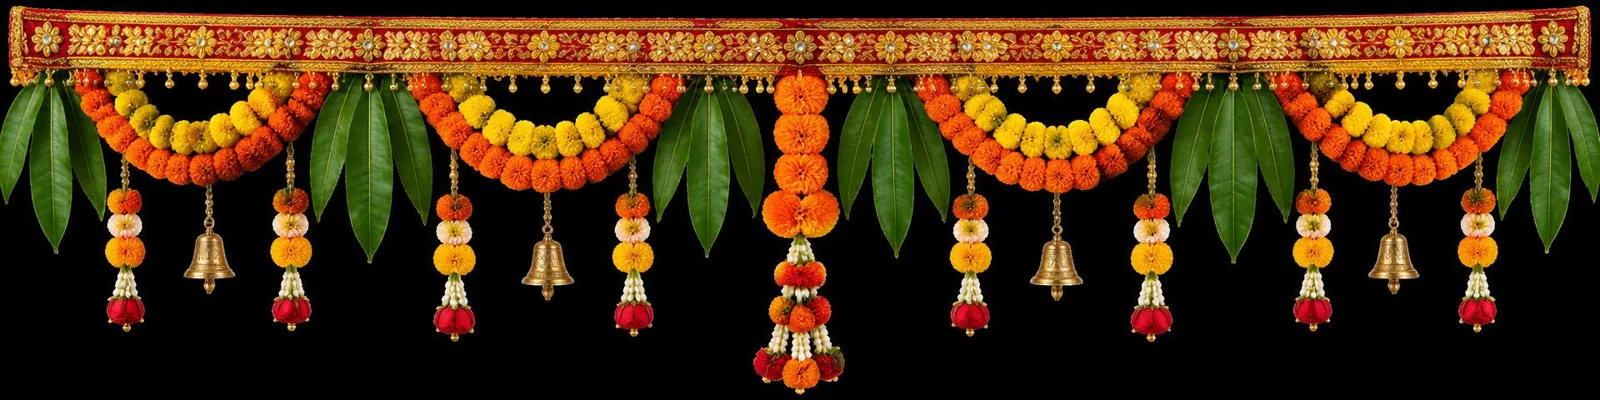
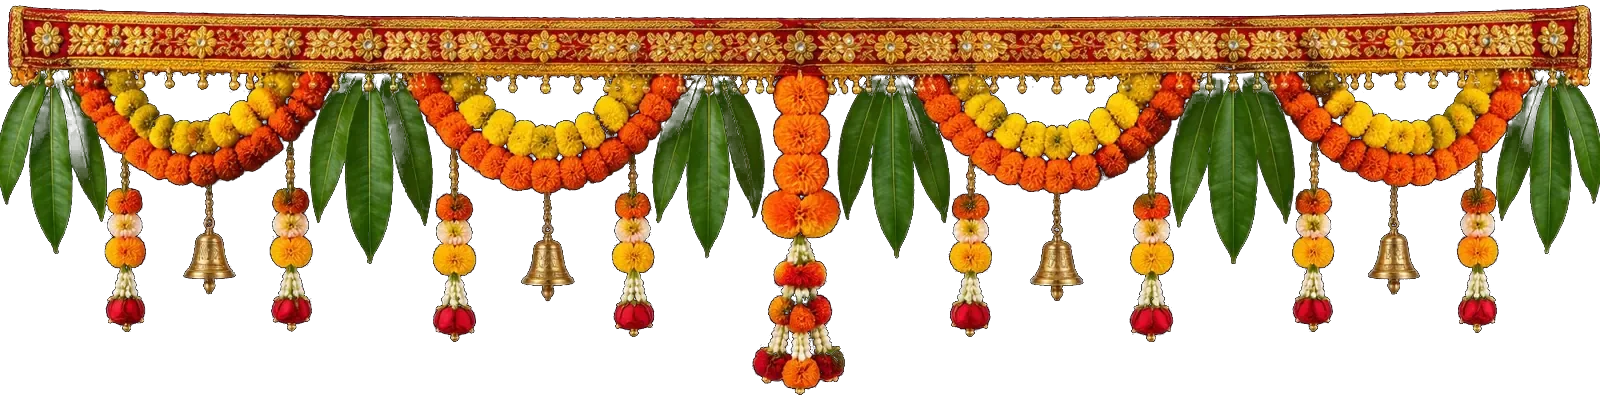
Changes

diff --git a/src/styles.css b/src/styles.css
@@ -194,7 +194,7 @@
   --challenge-glow: var(--festival-glow);
 }
 .diwali-decoration { position: absolute; left: 0; right: 0; top: 100%; height: 64px; overflow: hidden; pointer-events: none; z-index: 40; }
-.diwali-toran { height: 100%; background-repeat: repeat-x; background-size: auto 100%; background-position: center top; mix-blend-mode: lighten; filter: drop-shadow(0 6px 10px oklch(0 0 0 / .5)); }
+.diwali-toran { height: 100%; background-repeat: repeat-x; background-size: auto 100%; background-position: center top; filter: drop-shadow(0 6px 10px oklch(0 0 0 / .5)); }
 .diwali :is(h1,h2,h3) { text-shadow: var(--festival-text-glow); }
 .diwali [data-slot="button"]:not([data-variant="ghost"]):focus-visible { box-shadow: var(--festival-glow); }
 .diwali .young-challenge-page :is(#journey li,#fees-rewards article) { box-shadow: var(--festival-glow); }
@@ -485,5 +485,5 @@
 .diwali footer { background-image: var(--rangoli); background-size: 140px; border-top: 2px solid var(--primary); }
 @media (prefers-reduced-motion: reduce) { .diwali .diwali-sparkles, .diwali .solid-cta { animation: none; } }
 
-.diwali .hero-shell > .relative { padding-top: 5.5rem; }
-@media (max-width: 639px) { .diwali .hero-shell > .relative { padding-top: 4rem; } .diwali main section:not(.hero-shell):not(.contact-band) { background-size: 90px; } .diwali .solid-cta { width: 100%; justify-content: center; } }
+.diwali .hero-shell > .relative { padding-top: 3.5rem; }
+@media (max-width: 639px) { .diwali .hero-shell > .relative { padding-top: 2.75rem; } .diwali main section:not(.hero-shell):not(.contact-band) { background-size: 90px; } .diwali .solid-cta { width: 100%; justify-content: center; } }

diff --git a/roadmap.md b/roadmap.md
@@ -109,3 +109,4 @@
 - [x] Mobile footer: About Us 4mm left, Our People 8mm left so labels fit one line
 - [x] Mobile footer: Follow Us directly under the Corporate Office address (right side)
 - [x] Diwali theme: toran decoration, default theme, mobile polish
+- [x] Toran: transparent background, overlaps content on every page
